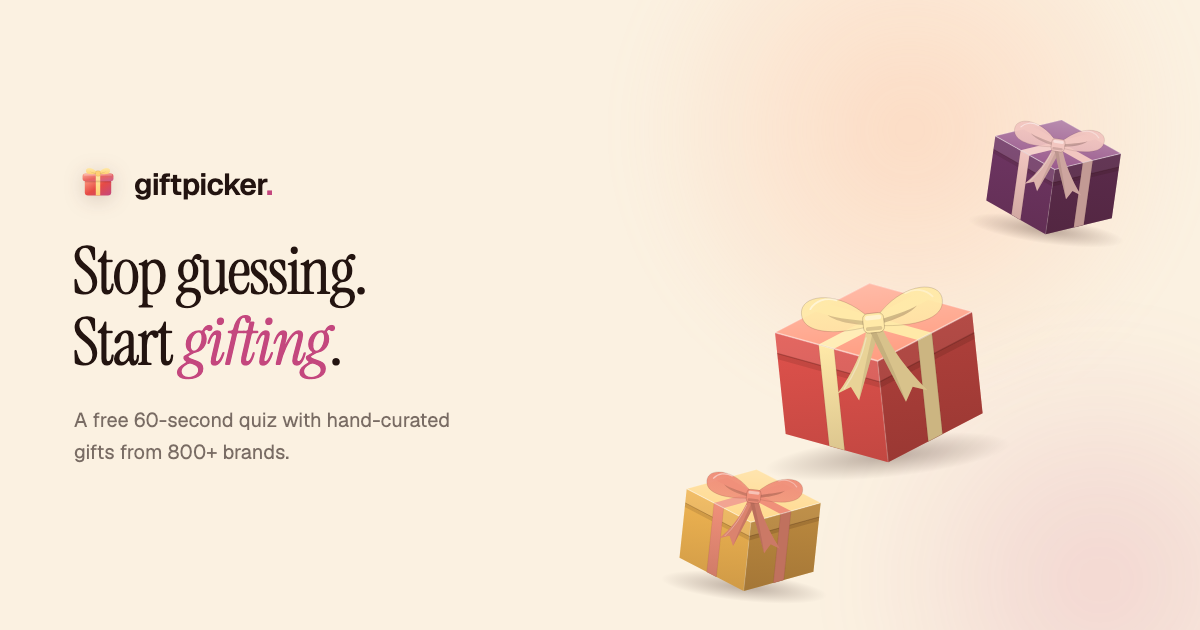
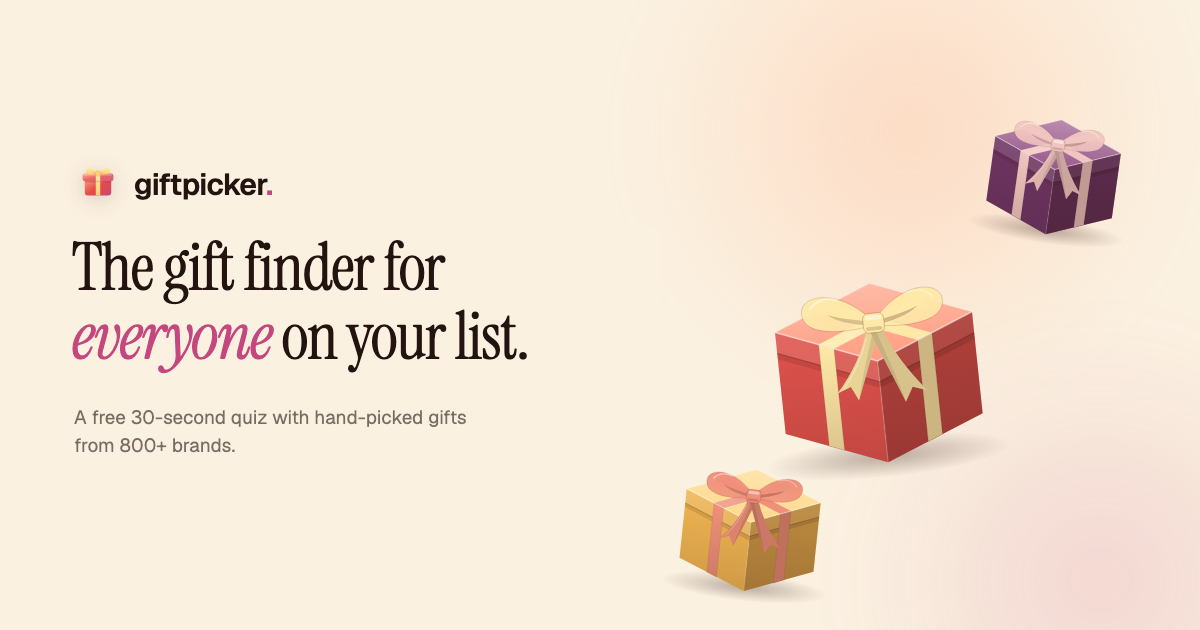
It's a 30-second quiz: "60-second" and "60s" become 30 everywhere; new site share image with the new headline
Buttons ("Take the quiz · 30s"), footer, meta and share descriptions, crawler copy, and
llms.txt. The default share image now carries "The gift finder for everyone on your list."
(og-image.png?v=20261123).

Changed region(s): [[0.0617, 0.3619, 0.4317, 0.6032], [0.0617, 0.6333, 0.4008, 0.754]]

diff --git a/index.html b/index.html
@@ -43,22 +43,22 @@
 	<!--gp-meta-->
 	<meta
 		name="description"
-		content="GiftPicker is a free 60-second gift finder quiz. Answer five quick questions and pick a present matched to their interests, the occasion, and your budget."
+		content="GiftPicker is a free 30-second gift finder quiz. Answer five quick questions and pick a present matched to their interests, the occasion, and your budget."
 	/>
 	<link rel="canonical" href="https://giftpicker.io/"/>
 	<meta property="og:type" content="website"/>
 	<meta property="og:site_name" content="GiftPicker"/>
 	<meta property="og:title" content="GiftPicker: stop guessing, start gifting"/>
-	<meta property="og:description" content="A free 60-second gift finder quiz. Answer five quick questions about the person and get hand-curated gift ideas matched to their interests, the occasion, and your budget."/>
+	<meta property="og:description" content="A free 30-second gift finder quiz. Answer five quick questions about the person and get hand-curated gift ideas matched to their interests, the occasion, and your budget."/>
 	<meta property="og:url" content="https://giftpicker.io/"/>
-	<meta property="og:image" content="https://giftpicker.io/og-image.png?v=20261019"/>
+	<meta property="og:image" content="https://giftpicker.io/og-image.png?v=20261123"/>
 	<meta property="og:image:width" content="1200"/>
 	<meta property="og:image:height" content="630"/>
-	<meta property="og:image:alt" content="GiftPicker: stop guessing, start gifting. A free 60-second gift finder quiz with hand-curated gifts from 800+ brands."/>
+	<meta property="og:image:alt" content="GiftPicker: the gift finder for everyone on your list. A free 30-second quiz with hand-picked gifts from 800+ brands."/>
 	<meta name="twitter:card" content="summary_large_image"/>
 	<meta name="twitter:title" content="GiftPicker: stop guessing, start gifting"/>
-	<meta name="twitter:description" content="A free 60-second gift finder quiz. Answer five quick questions about the person and get hand-curated gift ideas matched to their interests, the occasion, and your budget."/>
-	<meta name="twitter:image" content="https://giftpicker.io/og-image.png?v=20261019"/>
+	<meta name="twitter:description" content="A free 30-second gift finder quiz. Answer five quick questions about the person and get hand-curated gift ideas matched to their interests, the occasion, and your budget."/>
+	<meta name="twitter:image" content="https://giftpicker.io/og-image.png?v=20261123"/>
 	<script type="application/ld+json">
 	{
 		"@context": "https://schema.org",
@@ -66,7 +66,7 @@
 		"name": "GiftPicker",
 		"alternateName": "Gift Picker",
 		"url": "https://giftpicker.io/",
-		"description": "A free 60-second gift finder quiz. Answer five quick questions about the person you're shopping for (who they are to you and their age, the occasion, their interests, the vibe, and your budget) and get ranked gift ideas from a hand-curated catalog of gifts from 800+ brands.",
+		"description": "A free 30-second gift finder quiz. Answer five quick questions about the person you're shopping for (who they are to you and their age, the occasion, their interests, the vibe, and your budget) and get ranked gift ideas from a hand-curated catalog of gifts from 800+ brands.",
 		"applicationCategory": "LifestyleApplication",
 		"operatingSystem": "Any",
 		"browserRequirements": "Requires JavaScript",
@@ -141,8 +141,8 @@
      /gift/:id, /brands, and other prerendered routes. -->
 <div id="root"><div id="gp-static"><!--gp-static-->
 	<div style="max-width:720px;margin:0 auto;padding:48px 24px;font-family:Geist,system-ui,sans-serif;color:#231410;background:#FBF1E1;line-height:1.6;">
-		<h1 style="font-size:40px;line-height:1.1;margin:0 0 16px;">GiftPicker: a free 60-second gift finder quiz</h1>
-		<p>GiftPicker is the gift finder for everyone on your list: a free 60-second quiz. Answer five quick questions about the person and get a ranked shortlist of hand-curated gifts from 800+ brands, matched to their interests, the occasion, and your budget, with direct buy links. You don't need an account.</p>
+		<h1 style="font-size:40px;line-height:1.1;margin:0 0 16px;">GiftPicker: a free 30-second gift finder quiz</h1>
+		<p>GiftPicker is the gift finder for everyone on your list: a free 30-second quiz. Answer five quick questions about the person and get a ranked shortlist of hand-curated gifts from 800+ brands, matched to their interests, the occasion, and your budget, with direct buy links. You don't need an account.</p>
 		<h2>How the gift quiz works</h2>
 		<ol>
 			<li><strong>Tell us about them:</strong> who the gift is for (partner, parent, child, grandparent, sibling, friend, coworker, mentor, or yourself), their age, and the occasion (birthday, anniversary, holiday, wedding, new baby, housewarming, appreciation, thank you, new job, sympathy, just because, or one you type yourself).</li>

diff --git a/workers-site/index.js b/workers-site/index.js
@@ -414,7 +414,7 @@ async function prerenderGiftPage(event, response, giftId) {
 		${label ? `<p style="font-size:20px;margin:0 0 12px;">${escapeHtml(label)}</p>` : ""}
 		${desc ? `<p>${desc}</p>` : ""}
 		<p><a href="${buyLink}" rel="sponsored noopener" style="color:#C4477E;">Buy this gift</a></p>${featuredInHtml(giftId)}
-		<p>This is a hand-curated gift pick on <a href="${SITE_ORIGIN}/" style="color:#C4477E;">GiftPicker</a>, a free 60-second gift finder quiz that recommends genuinely good gifts from 800+ brands. <a href="${SITE_ORIGIN}/quiz" style="color:#C4477E;">Take the quiz</a> to get picks tailored to your recipient.</p>
+		<p>This is a hand-curated gift pick on <a href="${SITE_ORIGIN}/" style="color:#C4477E;">GiftPicker</a>, a free 30-second gift finder quiz that recommends genuinely good gifts from 800+ brands. <a href="${SITE_ORIGIN}/quiz" style="color:#C4477E;">Take the quiz</a> to get picks tailored to your recipient.</p>
 		<p style="font-size:12px;color:#8a7a72;">As an Amazon Associate, GiftPicker earns from qualifying purchases.</p>
 	</div>`;
 
@@ -623,7 +623,7 @@ function thanksHtml(rows) {
 	<div style="max-width:720px;margin:0 auto;padding:48px 24px;font-family:Geist,system-ui,sans-serif;color:#231410;background:#FBF1E1;line-height:1.6;">
 		<h1 style="font-size:36px;line-height:1.1;margin:0 0 12px;">Thanks</h1>
 		<p>${escapeHtml(THANKS_INTRO)}</p>${sources}
-		<p><a href="${SITE_ORIGIN}/" style="color:#C4477E;">GiftPicker</a> is a free 60-second gift finder quiz with hand-curated picks from 800+ brands.</p>
+		<p><a href="${SITE_ORIGIN}/" style="color:#C4477E;">GiftPicker</a> is a free 30-second gift finder quiz with hand-curated picks from 800+ brands.</p>
 	</div>`;
 }
 
@@ -655,7 +655,7 @@ async function prerenderStaticPage(response, path, page) {
 	<div style="max-width:720px;margin:0 auto;padding:48px 24px;font-family:Geist,system-ui,sans-serif;color:#231410;background:#FBF1E1;line-height:1.6;">
 		<h1 style="font-size:36px;line-height:1.1;margin:0 0 12px;">${escapeHtml(page.title.split(" · ")[0])}</h1>
 		<p>${escapeHtml(page.body)}</p>
-		<p><a href="${SITE_ORIGIN}/" style="color:#C4477E;">GiftPicker</a> is a free 60-second gift finder quiz with hand-curated picks from 800+ brands.</p>
+		<p><a href="${SITE_ORIGIN}/" style="color:#C4477E;">GiftPicker</a> is a free 30-second gift finder quiz with hand-curated picks from 800+ brands.</p>
 	</div>`;
     out = replaceBetween(out, "<!--gp-static-->", "<!--/gp-static-->", staticBlock);
   }
@@ -703,7 +703,7 @@ async function serveSitemap(event) {
 const BLOG_TITLE = "Gift guides · GiftPicker";
 const BLOG_DESCRIPTION =
   "Gift guides from GiftPicker: practical advice for choosing gifts for coworkers, partners, family, and friends, with picks from our hand-curated catalog.";
-const DEFAULT_OG_IMAGE = `${SITE_ORIGIN}/og-image.png?v=20261019`;
+const DEFAULT_OG_IMAGE = `${SITE_ORIGIN}/og-image.png?v=20261123`;
 const ORG = {
   "@type": "Organization",
   name: "GiftPicker",

diff --git a/src/components/GiftPage.tsx b/src/components/GiftPage.tsx
@@ -140,7 +140,7 @@ export function GiftPage() {
                 we'll find you something even better.
               </p>
               <Pillow tone="coral" size="lg" href="/quiz" onClick={() => navigate("/quiz")}>
-                Take the quiz · 60s
+                Take the quiz · 30s
               </Pillow>
             </div>
           )}
@@ -390,7 +390,7 @@ export function GiftPage() {
                 Not quite it? Find their <em style={{ color: "#C4477E" }}>perfect</em> gift.
               </p>
               <Pillow tone="ink" size="lg" href="/quiz" onClick={() => navigate("/quiz")}>
-                Take the 60-second quiz →
+                Take the 30-second quiz →
               </Pillow>
             </div>
           )}

diff --git a/src/components/clay/FooterBrand.tsx b/src/components/clay/FooterBrand.tsx
@@ -23,7 +23,7 @@ export function FooterBrand() {
           color: "rgba(35,20,16,0.5)",
         }}
       >
-        GiftPicker is a free 60-second gift finder quiz. Answer five quick
+        GiftPicker is a free 30-second gift finder quiz. Answer five quick
         questions about the person and get a shortlist of gifts they'll actually love.
       </p>
     </div>

diff --git a/src/components/Landing.tsx b/src/components/Landing.tsx
@@ -141,7 +141,7 @@ export function Landing() {
 
               <div style={{ display: "flex", gap: 12, marginTop: 28, flexWrap: "wrap" }}>
                 <Pillow tone="coral" size="lg" href="/quiz" onClick={goStart}>
-                  Take the quiz · 60s
+                  Take the quiz · 30s
                 </Pillow>
               </div>
 
